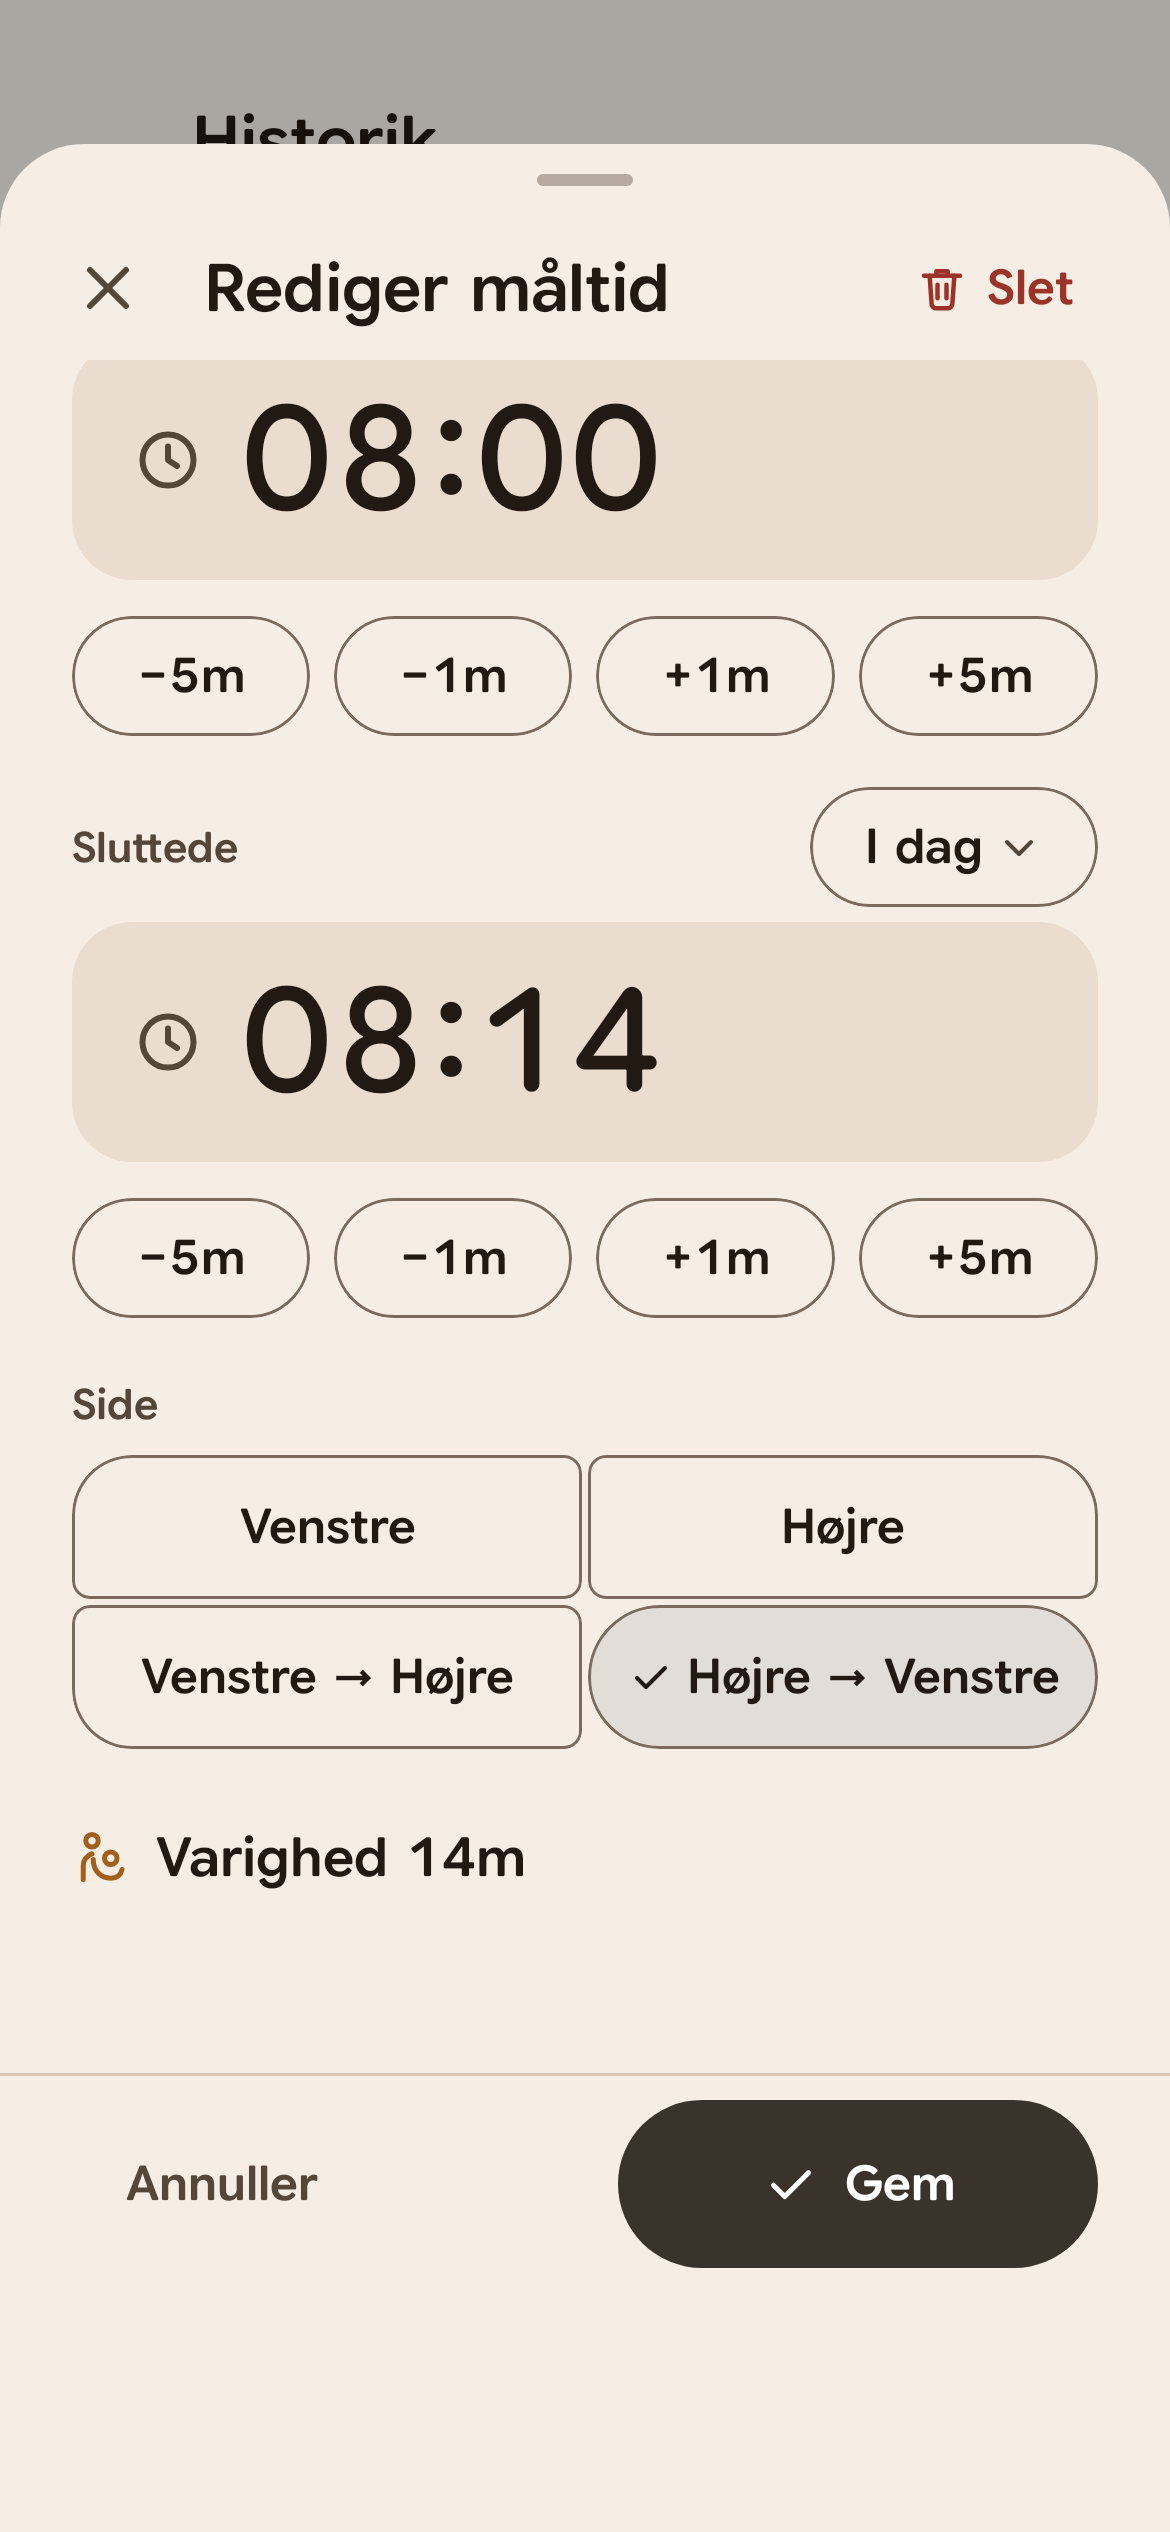
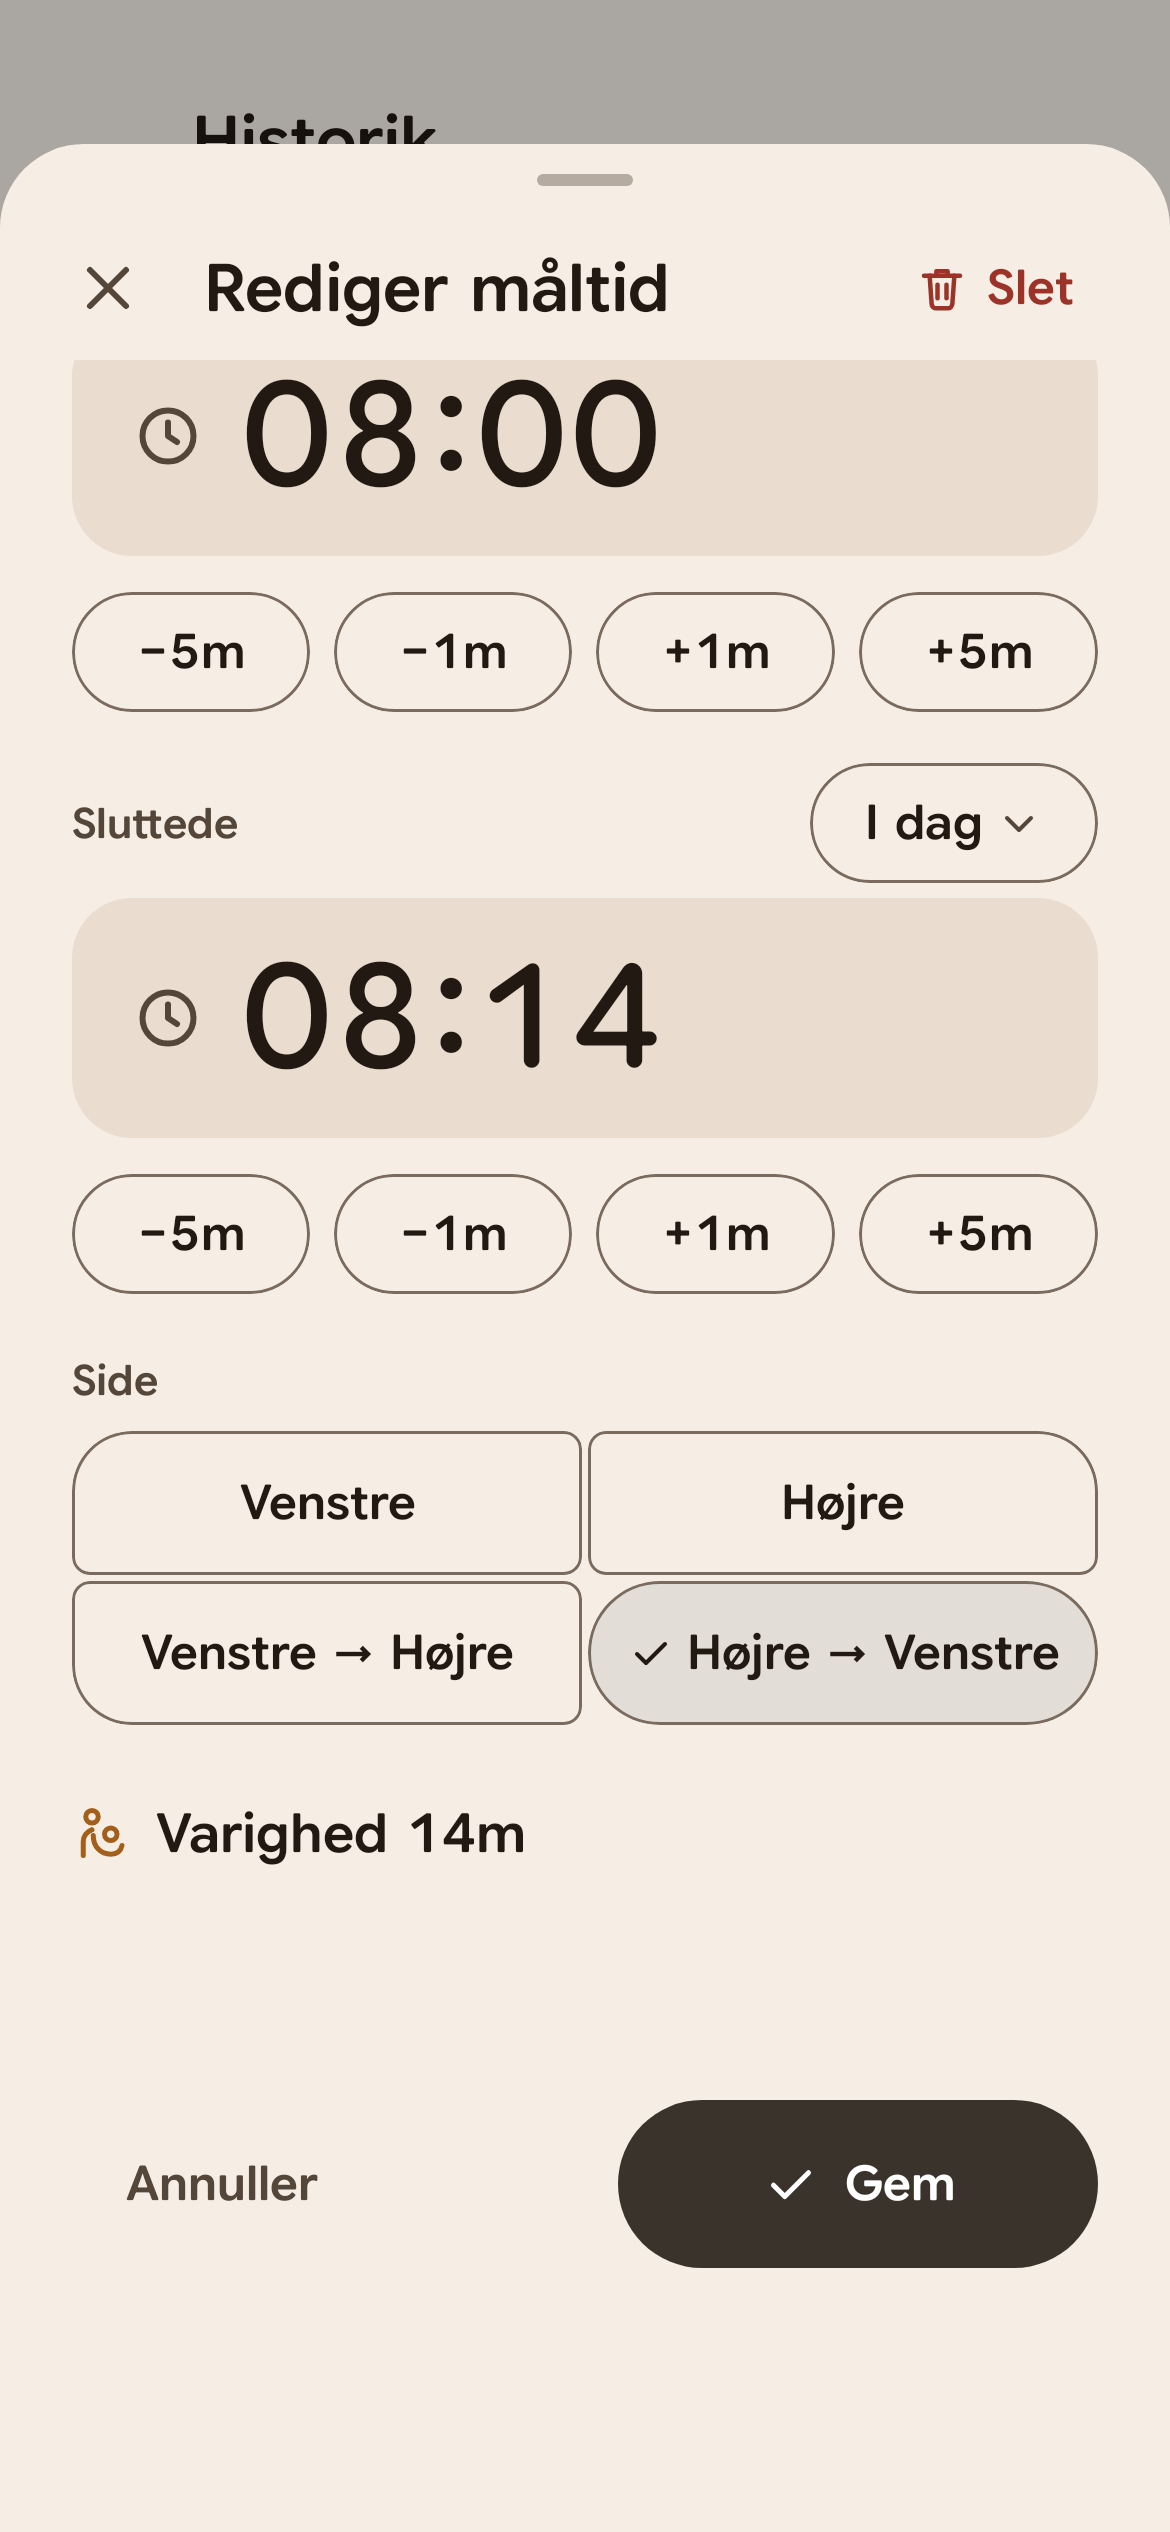
Phone P2: guard History/Settings back against double taps
A second tap on Back (or Font licences) while a screen was still animating
out ran navigation again: from History it popped Home too and left an empty
screen. History, Settings and the licences now act only while resumed
(dropUnlessResumed); AppNavigationTest covers the double tap (it failed
before the fix).

The edit sheet's validation slot is tagged with its padding, so the
breastfeed screenshot (13) scrolls to the true end of the form and no longer
shows the "more below" hairline. Screenshots 13 re-recorded in EN and DA.

Claude-Session: https://claude.ai/code/session_01XDhkt28s4qxhgmUXYuk5QP

diff --git a/app/src/main/kotlin/com/ffmathy/xaternity/phone/ui/settings/SettingsScreen.kt b/app/src/main/kotlin/com/ffmathy/xaternity/phone/ui/settings/SettingsScreen.kt
@@ -46,6 +46,7 @@ import androidx.compose.ui.text.input.KeyboardCapitalization
 import androidx.compose.ui.tooling.preview.Preview
 import androidx.compose.ui.unit.dp
 import androidx.lifecycle.compose.collectAsStateWithLifecycle
+import androidx.lifecycle.compose.dropUnlessResumed
 import androidx.lifecycle.viewmodel.compose.viewModel
 import com.ffmathy.xaternity.core.format.Labels
 import com.ffmathy.xaternity.core.format.rememberFormatters
@@ -71,8 +72,9 @@ import com.ffmathy.xaternity.core.R as CoreR
 fun SettingsRoute(onBack: () -> Unit, onOpenLicences: () -> Unit) {
     val viewModel: SettingsViewModel = viewModel(factory = SettingsViewModel.Factory)
     val state by viewModel.state.collectAsStateWithLifecycle()
-    val back by rememberUpdatedState(onBack)
-    val licences by rememberUpdatedState(onOpenLicences)
+    // Only while this screen is resumed: a second tap during a transition must not pop Home or stack Licences twice.
+    val back by rememberUpdatedState(dropUnlessResumed(block = onBack))
+    val licences by rememberUpdatedState(dropUnlessResumed(block = onOpenLicences))
     val actions = remember(viewModel) {
         object : SettingsActions by viewModel {
             override fun onBack() = back()

diff --git a/app/src/test/kotlin/com/ffmathy/xaternity/phone/AppNavigationTest.kt b/app/src/test/kotlin/com/ffmathy/xaternity/phone/AppNavigationTest.kt
@@ -46,6 +46,24 @@ class AppNavigationTest {
         compose.onNodeWithText("Settings").assertExists()
     }
 
+    /** A second Back tap while History is still animating out must not pop Home as well (an empty screen). */
+    @Test
+    fun aDoubleTapOnBackReturnsToHomeOnce() {
+        compose.waitUntilAtLeastOneExists(hasText("Feed"), timeoutMillis = 10_000)
+        compose.onNodeWithText("History").performClick()
+        compose.waitUntilAtLeastOneExists(hasText("Add entry"), timeoutMillis = 5_000)
+
+        compose.mainClock.autoAdvance = false
+        compose.onNodeWithContentDescription("Back").performClick()
+        compose.mainClock.advanceTimeByFrame()
+        compose.onNodeWithContentDescription("Back").performClick()
+        compose.mainClock.autoAdvance = true
+
+        compose.waitUntilAtLeastOneExists(hasText("Start sleep"), timeoutMillis = 5_000)
+        compose.waitUntil(timeoutMillis = 5_000) { compose.onAllNodes(hasText("Add entry")).fetchSemanticsNodes().isEmpty() }
+        compose.onNodeWithText("Feed").assertExists()
+    }
+
     @Test
     fun historyAddsAPastEntryAndSettingsShowTheFontLicences() {
         compose.waitUntilAtLeastOneExists(hasText("Feed"), timeoutMillis = 10_000)

diff --git a/app/src/main/kotlin/com/ffmathy/xaternity/phone/ui/history/HistoryScreen.kt b/app/src/main/kotlin/com/ffmathy/xaternity/phone/ui/history/HistoryScreen.kt
@@ -49,6 +49,7 @@ import androidx.compose.ui.text.style.TextOverflow
 import androidx.compose.ui.tooling.preview.Preview
 import androidx.compose.ui.unit.dp
 import androidx.lifecycle.compose.collectAsStateWithLifecycle
+import androidx.lifecycle.compose.dropUnlessResumed
 import androidx.lifecycle.viewmodel.compose.viewModel
 import com.ffmathy.xaternity.core.domain.DayCounts
 import com.ffmathy.xaternity.core.format.Formatters
@@ -86,7 +87,8 @@ fun HistoryRoute(onBack: () -> Unit) {
     val state by viewModel.state.collectAsStateWithLifecycle()
     val edit by editViewModel.state.collectAsStateWithLifecycle()
     rememberEditEffects(editViewModel, onDeleted = viewModel::onEntryDeleted)
-    val back by rememberUpdatedState(onBack)
+    // Only while this screen is resumed: a second tap during the exit transition must not pop Home as well.
+    val back by rememberUpdatedState(dropUnlessResumed(block = onBack))
     val actions = remember(viewModel, editViewModel) {
         object : HistoryActions by viewModel {
             override fun onBack() = back()

diff --git a/app/src/main/kotlin/com/ffmathy/xaternity/phone/ui/settings/LicencesScreen.kt b/app/src/main/kotlin/com/ffmathy/xaternity/phone/ui/settings/LicencesScreen.kt
@@ -26,6 +26,7 @@ import androidx.compose.ui.res.stringResource
 import androidx.compose.ui.semantics.heading
 import androidx.compose.ui.semantics.semantics
 import androidx.compose.ui.unit.dp
+import androidx.lifecycle.compose.dropUnlessResumed
 import com.ffmathy.xaternity.core.ui.icons.XIcons
 import com.ffmathy.xaternity.phone.R
 import com.ffmathy.xaternity.phone.ui.components.XTopBar
@@ -52,7 +53,8 @@ fun LicencesRoute(onBack: () -> Unit) {
     val licences by produceState(emptyList<FontLicence>(), context) {
         value = withContext(Dispatchers.IO) { readLicences(context) }
     }
-    LicencesScreen(licences, onBack)
+    // Only while this screen is resumed: a second tap during the exit transition must not pop Settings as well.
+    LicencesScreen(licences, dropUnlessResumed(block = onBack))
 }
 
 @Composable

diff --git a/app/src/main/kotlin/com/ffmathy/xaternity/phone/ui/edit/EditSheet.kt b/app/src/main/kotlin/com/ffmathy/xaternity/phone/ui/edit/EditSheet.kt
@@ -404,9 +404,10 @@ private fun ValidationSlot(state: EditUiState, formatters: Formatters, actions: 
     Row(
         Modifier
             .fillMaxWidth()
+            // Tagged with its padding, so scrolling to the slot reaches the end of the form.
+            .testTag(EditTags.VALIDATION)
             .padding(top = 12.dp, bottom = 8.dp)
             .heightIn(min = 48.dp)
-            .testTag(EditTags.VALIDATION)
             .semantics { liveRegion = LiveRegionMode.Polite },
         verticalAlignment = Alignment.CenterVertically,
     ) {
